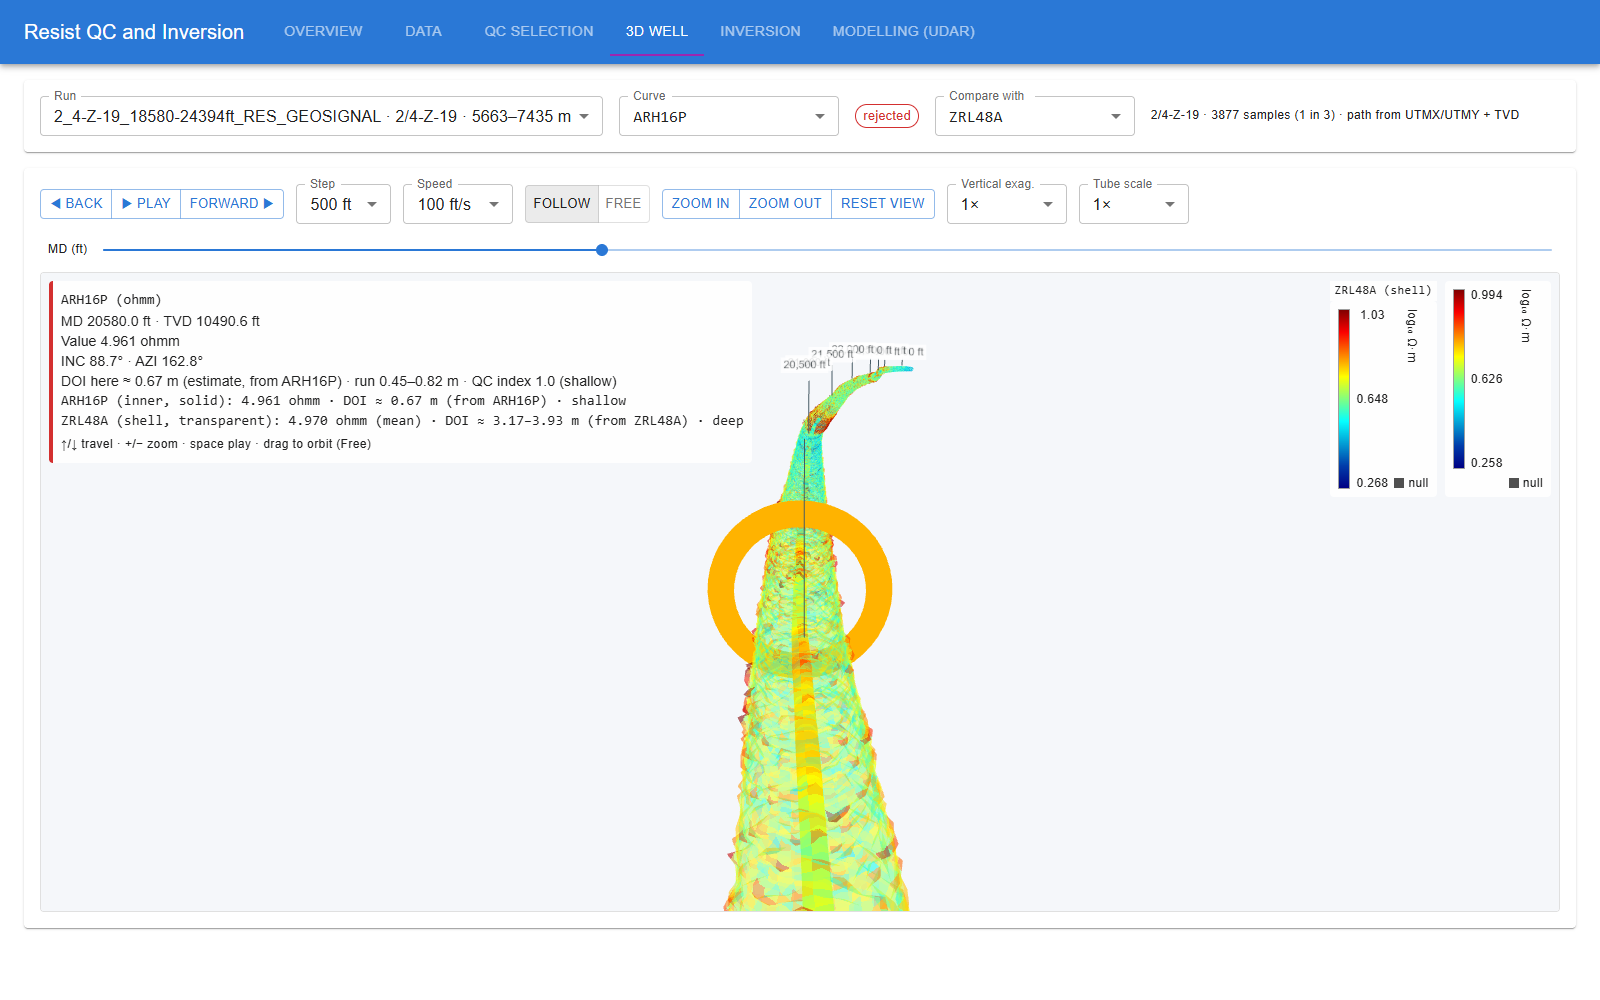
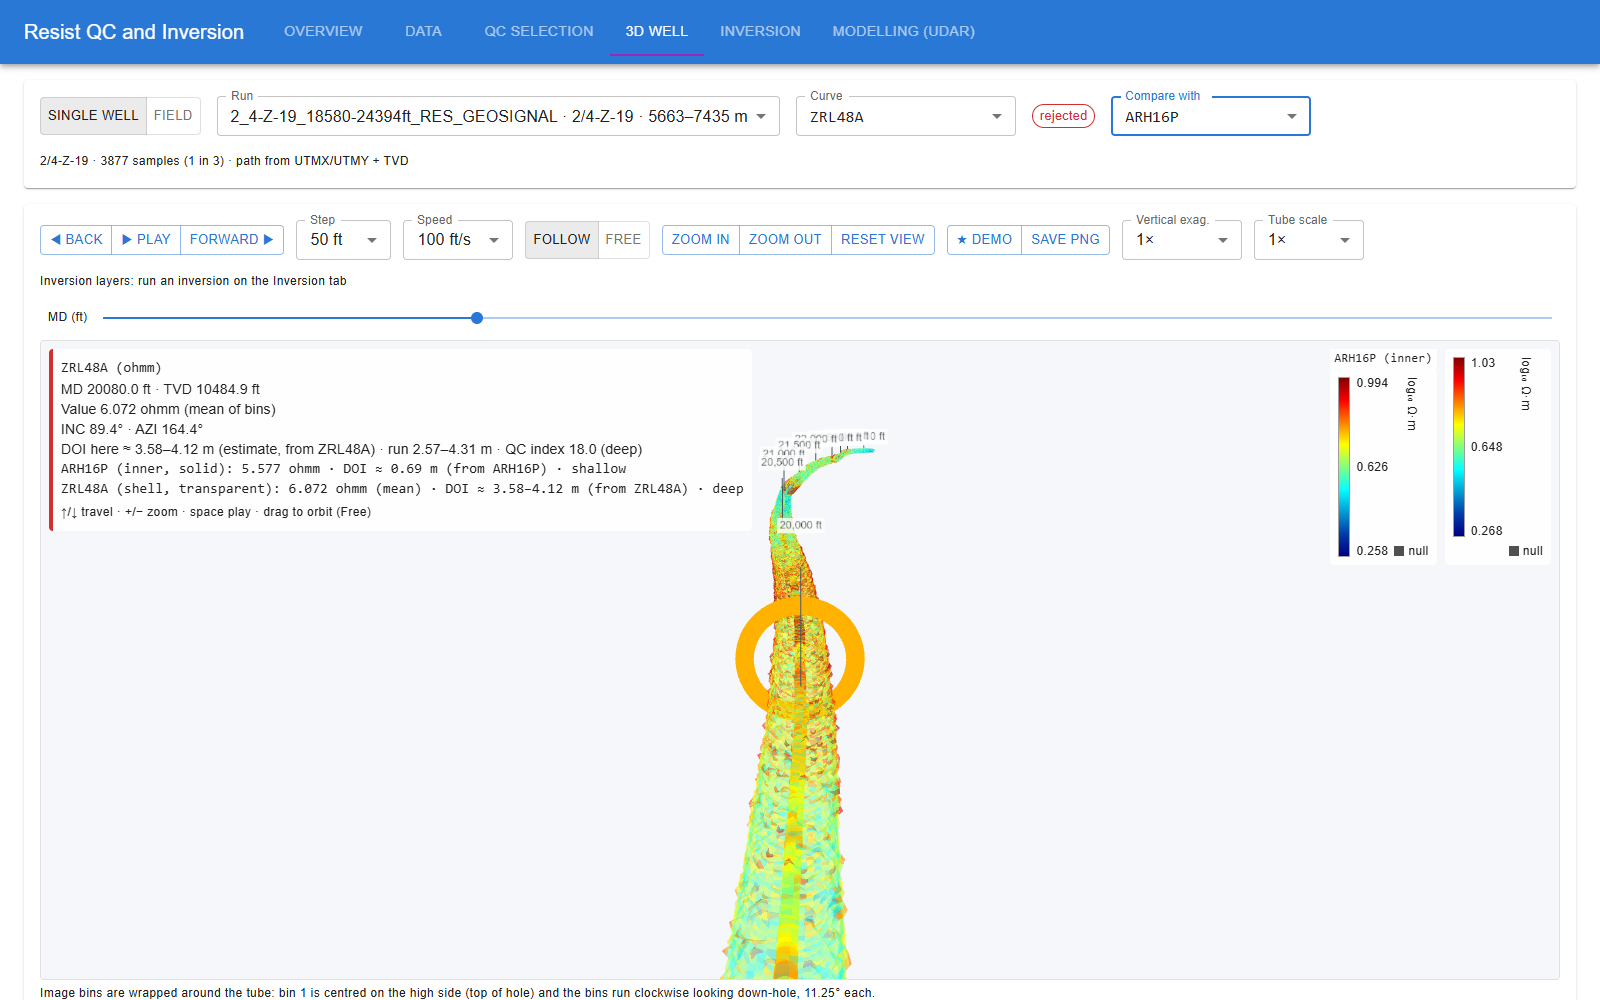
docs: 3D well tab features in README and hackathon deck (#7)
* docs: describe the 3D well tab features and refresh screenshots

* docs(slides): show the shipped 3D well features with screenshots

---------

Changed region(s): [[0.0312, 0.093, 0.9688, 0.558], [0.0312, 0.341, 0.5938, 1.0], [0.2812, 0.31, 0.3125, 0.341]]

diff --git a/presentations/hackathon/slides.md b/presentations/hackathon/slides.md
@@ -26,45 +26,44 @@ title: What we built
 
 # What we built
 
-<div class="grid grid-cols-2 gap-6 text-sm pt-2">
-<div>
+<div class="grid grid-cols-5 gap-5 text-sm pt-1">
+<div class="col-span-2">
 
 <div class="font-bold pb-1">The problem</div>
 
-- 10 Ekofisk wells, 11 DLIS runs of ADR resistivity + geosignal
-- ~50 candidate curves per run — which ones are fit to invert?
-- Inversion tools are slow, opaque and desktop-bound
+- 10 Ekofisk wells, 11 DLIS runs, ~50 curves each
+- Which curves are fit to invert? Where do they see?
 
-<div class="font-bold pt-4 pb-1">Our answer</div>
+<div class="font-bold pt-3 pb-1">Our answer: one web app</div>
 
-- One web app from raw DLIS to inversion
-- QC picks **5–10 curves** with a reason for every keep and drop
-- 1D forward model and inversion run **in the browser**
+| Tab | What you get |
+|-----|--------------|
+| QC | Picks **5–10 curves**, a reason for each |
+| Inversion | 1.5D layered model, curtain, log fit |
+| Modelling | UDAR 1D model in the browser |
+| 3D well | Real well path, DOI-sized tube |
 
 </div>
-<div>
+<div class="col-span-3">
 
-<div class="font-bold pb-1">The platform</div>
+<img src="/well3d-compare.png" class="w-full h-80 object-cover object-left rounded border border-gray-300" />
 
-| Step | What you get |
-|------|--------------|
-| Data | Curve inventory, curves vs depth |
-| QC | Ranked table, DOI-noise scatter, depth tracks |
-| Modelling | UDAR 1D forward model and inversion |
-| 3D well | Curve on the well path, DOI-sized tube *(in progress)* |
+<div class="text-xs opacity-70 pt-1">Z-19 · shallow ARH16P (solid) inside deep ZRL48A (shell) · the tube is the estimated depth of investigation</div>
 
 </div>
 </div>
 
 <!--
-~1 min 30 s.
-- Data: FastAPI backend reads the DLIS files directly and exposes runs, curve inventory and curve data.
-- QC: scores each curve, keeps 5–10, explains every rejection; stable JSON contract between backend and UI.
-- Modelling: unchanged copy of the UDAR_Bench compute core running in a web worker.
-- 3D well: one QC curve drawn along the real UTM/TVD path with the same colour scale as the QC tab.
-  Tube thickness follows the curve's QC depth of investigation, so deep curves show a wider sensed volume
-  (an estimate scaled from the relative DOI index, not a measured reach).
-Update this slide as features land.
+~1 min.
+- Data: FastAPI reads the DLIS files directly; runs, curve inventory and curve data.
+- QC: scores every curve, keeps 5–10, explains every rejection.
+- Inversion: windowed Levenberg-Marquardt 1.5D fit of the QC selection: layered model, curtain section, measured vs modelled logs.
+- Modelling: unchanged copy of the UDAR_Bench compute core in a web worker.
+- 3D well: the curve along the real UTM/TVD path in the QC colours. The tube radius is a per-sample
+  DOI estimate: skin depth 503·√(ρ/f), soft cap at 3 spacings. For 32-bin images it bulges toward
+  the resistive (red) bins; ZG geosignals borrow that shape from the matching ZR image.
+- Picture: Compare with: the shallower curve is the solid inner tube, the deeper one the transparent shell.
+Say: "The DOI is a physics estimate, not a vendor figure."
 -->
 
 ---
@@ -73,39 +72,51 @@ title: How it works and what's next
 
 # How it works · what's next
 
-<div class="grid grid-cols-2 gap-6 text-sm pt-2">
-<div>
+<div class="grid grid-cols-5 gap-5 text-sm pt-1">
+<div class="col-span-2">
 
 <div class="font-bold pb-1">How it works</div>
 
 - **Backend:** Python + FastAPI on the real DLIS files
-- **Frontend:** React + Material UI, compute in a web worker
+- **Frontend:** React, Material UI, three.js
 - **Physics:** 1D layered VTI model at the true tool position
-- **Speed:** milliseconds per station vs minutes for 2.5D
+- **3D:** inversion layers glow magenta where the DOI reaches them
+
+<div class="font-bold pt-3 pb-1">What's next</div>
+
+- Inversion over all 11 runs, stitched windows
+- 32-bin images reduced to mean, amplitude, phase
+- Vendor DOI figures instead of the estimate
 
 </div>
-<div>
+<div class="col-span-3 flex flex-col gap-2">
 
-<div class="font-bold pb-1">What's next</div>
+<img src="/well3d-layers.png" class="w-full h-38 object-cover rounded border border-gray-300" />
 
-- Windowed Levenberg-Marquardt inversion over all 11 runs
-- 32-bin azimuthal images reduced to mean, amplitude, phase
-- Borehole image wrapped around the 3D well
-- Several wells and horizons in one 3D scene
+<img src="/well3d-field.png" class="w-full h-38 object-cover rounded border border-gray-300" />
 
 </div>
 </div>
 
-<div class="pt-10 text-center text-base">
+<div class="pt-3 text-center text-base">
 
-**Demo →** QC selection → Modelling → 3D well
+**Live demo →** QC → Inversion → 3D: ★ Demo · Compare · Layers · Field
 
 </div>
 
 <!--
-~1 min 30 s including the live demo hand-over.
+~30 s, then ~2 min live demo. Total ≈ 4 min.
+Demo flow:
+1. QC selection: open VC-2, show the ranked table and the kept curves; click "Invert this selection →".
+2. Inversion: MD 17202–17322 ft, 3 layers; show the layered model and measured vs modelled logs.
+   (Run it before the talk too: jobs live in backend memory.)
+3. 3D well on Z-19, ZRL48A: press ★ Demo; the captions stop at the conductive and resistive zones
+   and TD. Escape stops it.
+4. Compare with ARH16P: shallow solid tube inside the deep shell.
+5. Switch to VC-2: Inversion layers on; the magenta glow is where a boundary is inside the DOI,
+   and the panel reads the nearest-boundary distance.
+6. Field: all 11 runs at their UTM positions; click a well to open it. Save PNG if asked.
 - 1D is exact for planar beds at oblique tool angles; dip comes from the well trajectory.
-- Harmonic reduction is 32:3 data reduction while keeping the physics.
 - Full 11-run inversion estimated at 1–8 hours on a laptop with 50 % window overlap.
-Close: "From raw DLIS to a trusted, invertible curve set — in the browser."
+Close: "From raw DLIS to a trusted curve set, an inverted model and a 3D picture of what the tool sees — in the browser."
 -->

diff --git a/README.md b/README.md
@@ -3,7 +3,7 @@
 Resistivity QC and inversion platform for the Ekofisk well data.
 
 - **Backend:** Python, FastAPI (`backend/`). Health, run list, curve inventory, curve data, QC selection and 3D well path endpoints on the real Ekofisk data.
-- **Frontend:** JavaScript, Vite, React, Material UI (`frontend/`). Pages: Overview (backend health, runs), Data (curve inventory and curves vs depth), QC selection (ranked table, DOI-noise scatter, depth tracks, saved selections), 3D well (one curve coloured along the real well path, with travel and zoom controls; open it with **3D** on a QC row or a selection chip, or bookmark `?tab=3d&run=<run>&curve=<curve>`), and Modelling (UDAR), which runs the UDAR_Bench 1D forward model and inversion in the browser.
+- **Frontend:** JavaScript, Vite, React, Material UI (`frontend/`). Pages: Overview (backend health, runs), Data (curve inventory and curves vs depth), QC selection (ranked table, DOI-noise scatter, depth tracks, saved selections), 3D well (one curve along the real well path with a DOI-sized tube, compare, inversion layers, field view, demo and PNG export; see [3D well tab](#3d-well-tab)), and Modelling (UDAR), which runs the UDAR_Bench 1D forward model and inversion in the browser.
 - **Data:** Ekofisk DLIS files in `data/`, with the reference notebook `view_resistivity_data_ekofisk.ipynb`.
 - **UDAR_Bench:** David's standalone browser example for 1D and 2.5D forward modeling and inversion (`UDAR_Bench/`). The single-file `UDAR_Bench.html` is not in the repo; build it with `node build/build.js` in `UDAR_Bench/source/` and open `UDAR_Bench/source/build/udar.html` in Chrome. The frontend uses an unchanged copy of its compute core (`frontend/src/compute/udar/`).
 
@@ -37,6 +37,25 @@ See [docs/inversion/RESEARCH_SUMMARY.md](docs/inversion/RESEARCH_SUMMARY.md) for
 Run the misfit study: `python -m backend.inversion.misfit_study --well Z-20 --md-min 20100 --md-max 20500 --output out/z20`.
 
 In the app, the **Inversion** tab inverts the curves chosen on the **QC selection** tab (button *Invert this selection →*) and shows the layered model, a curtain section, and measured vs modelled logs.
+
+## 3D well tab
+
+The **3D well** tab draws one QC curve along the real well path (UTMX/UTMY + TVD), in the QC tab's colours. The tube radius is a per-sample depth of investigation (DOI) estimate: skin depth `503·√(ρ/f)`, softly capped at 3 transmitter–receiver spacings. For 32-bin images the ring bulges toward the resistive (red) bins; ZG geosignals take that shape from the matching ZR image. Open it with **3D** on a QC row, a selection chip, or `?tab=3d&run=<run>&curve=<curve>`.
+
+| Control | What it does |
+|---------|--------------|
+| **Back / Play / Forward**, MD slider, **Follow / Free** | Travel along the well; Follow keeps the camera behind the travel point |
+| **Compare with** | Adds a second curve: the shallower one is the solid inner tube, the deeper one a transparent shell, each with its own colour bar |
+| **Inversion layers** | Shows the newest finished job from the **Inversion** tab as dipping boundary ribbons; a magenta glow marks where a boundary is within the curve's DOI, and the panel gives the nearest-boundary distance |
+| **Single well / Field** | Field draws all 11 runs at their UTM positions; hover highlights a well, a click opens it |
+| **★ Demo** | Scripted fly-through with captions at the most resistive and most conductive zone, the largest DOI spread (image curves) and TD; **Stop demo** or Escape ends it |
+| **Save PNG** | Downloads `<run>_<curve>_<md>ft.png` of the 3D canvas; `window.__well3dSnapshot()` returns the same image as a data URL |
+
+Inversion jobs live in backend memory, so run an inversion after each backend restart before turning on the layers. The DOI is an estimate, not a vendor figure; see [docs/plans/well-3d-view.md](docs/plans/well-3d-view.md) for the assumptions.
+
+![Compare with: ARH16P inner tube inside the ZRL48A shell on Z-19](docs/screenshots/well3d-compare.png)
+
+![Inversion layers on VC-2 with the magenta seen-boundary glow](docs/screenshots/well3d-layers.png)
 
 ## Documentation
 

diff --git a/docs/plans/well-3d-view.md b/docs/plans/well-3d-view.md
@@ -1,7 +1,7 @@
 ---
 title: 3D well view of one QC curve
 slug: well-3d-view
-status: implemented on branch (2026-11-19: option A three.js + R3F v9 + drei; steps 1-9 done, step 10 ship pending); change request 2026-11-19 12:45: tube radius from QC depth of investigation (step 11)
+status: implemented and merged to main (PR #6, 74b3f70, 2026-11-19); steps 1-11, criteria 12-13 and ideas A-G done
 owner: Ove
 created: 2026-11-19
 traceability: false
@@ -281,4 +281,4 @@ endpoint. Nothing else depends on them.
   - Stops are computed from the data: the most resistive and most conductive zone (log10 values clipped to the colour range, 2 % moving mean, first and last 3 % skipped), the largest DOI spread around the ring for image curves, and TD. Stops closer than 3 % of the well are merged. Non-resistivity curves say "Highest/Lowest value".
   - **Stop demo**, Escape, a run/curve change, leaving the tab or any manual travel (space, arrows, slider) ends the demo and hands control back. While it runs, the demo overrides only the travel speed and end MD.
   - **Save PNG** (`useSnapshot.js`) downloads `<run>_<curve>_<md>ft.png`: the WebGL canvas plus a run · curve · MD label. HTML overlays (readout, colour bar, caption) are not in the PNG. `window.__well3dSnapshot()` returns the same PNG as a data URL while the tab is active. The canvas now uses `preserveDrawingBuffer: true`.
-  - Screenshot: `docs/screenshots/well3d-demo.png` (Z-19 ZRL48A, resistive-zone stop).
+  - Screenshot: `docs/screenshots/well3d-demo.png` (Z-19 ZRL48A, conductive-zone stop).
